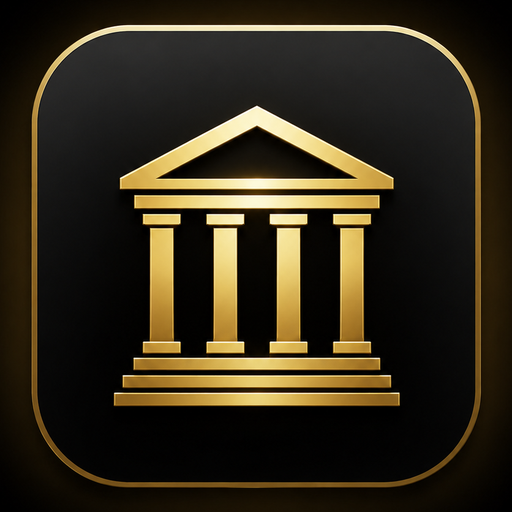
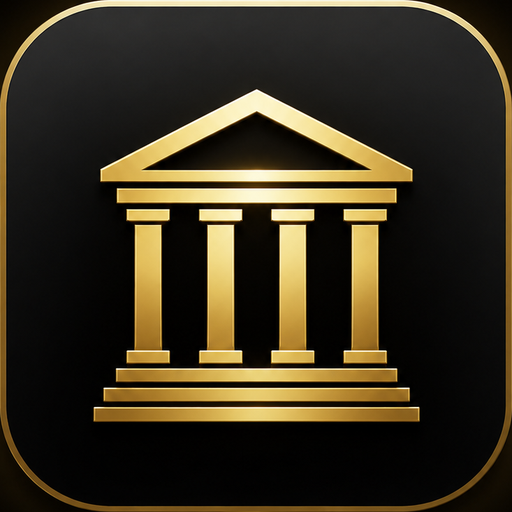
v79: ícono recortado EXACTO al borde dorado (sin el margen de resplandor de v77) — el oro llega al filo en los 4 lados; los vertices los redondea iOS al enmascarar. Adios a los filos negros alrededor del badge

diff --git a/index.html b/index.html
@@ -7,7 +7,7 @@
   <link rel="preconnect" href="https://fonts.googleapis.com">
   <link rel="preconnect" href="https://fonts.gstatic.com" crossorigin>
   <link href="https://fonts.googleapis.com/css2?family=Inter:wght@300;400;500;600;700;800;900&display=swap" rel="stylesheet">
-  <link rel="stylesheet" href="styles.css?v=78">
+  <link rel="stylesheet" href="styles.css?v=79">
 
   <!-- Aplica tema ANTES del primer render para evitar flash de color incorrecto -->
   <script>
@@ -1452,8 +1452,8 @@
 
 </div><!-- /phone -->
 
-<script src="firebase.js?v=78"></script>
-<script src="app.js?v=78"></script>
+<script src="firebase.js?v=79"></script>
+<script src="app.js?v=79"></script>
 
 </body>
 </html>

diff --git a/sw.js b/sw.js
@@ -1,4 +1,4 @@
-const CACHE = 'nutripro-v78';
+const CACHE = 'nutripro-v79';
 const FILES = [
   './',
   './index.html',
